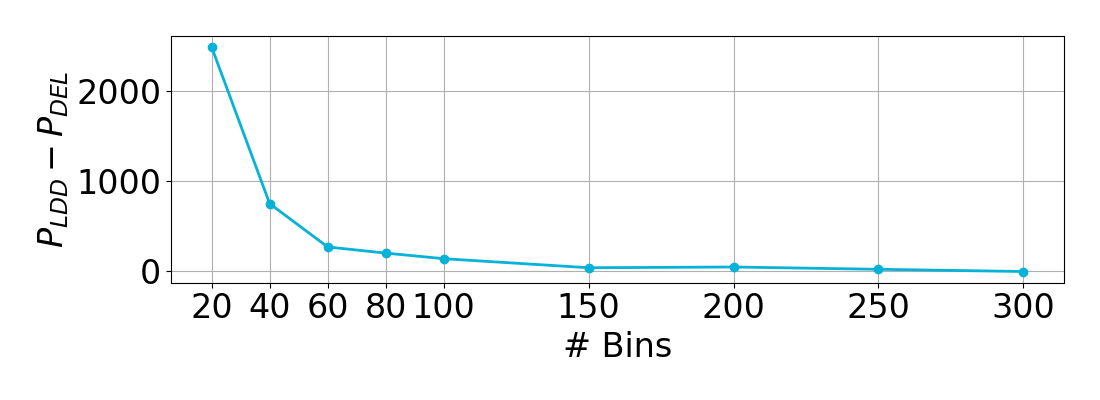
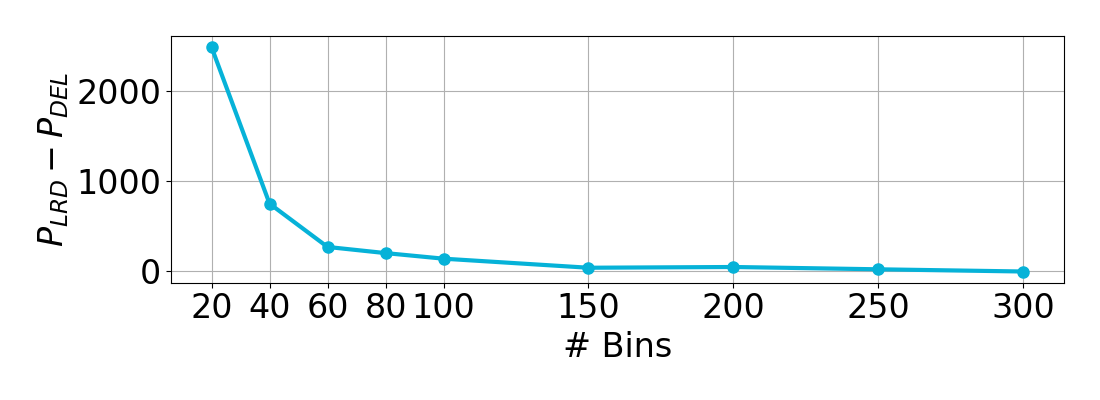
corrected LRD-DEL compr plot; saved AL

diff --git a/examples/06_drivetrain/M4W_production_runs/00_testing.py b/examples/06_drivetrain/M4W_production_runs/00_testing.py
@@ -605,8 +605,10 @@ lst_P_diff = np.array(df_nBins["P_LDD"].tolist()) - P_DEL
 # - plot
 fig,ax = plt.subplots(figsize=(11, 4))
 ax.plot(lst_nBins, lst_P_diff,
-        marker='o', color= clrs_m4w["Aqua"])
-ax.set_ylabel(r"$ P_{LDD}-P_{DEL} $")
+        marker='o', linewidth=3, markersize=8,
+        color= clrs_m4w["Aqua"]
+        )
+ax.set_ylabel(r"$ P_{LRD}-P_{DEL} $")
 ax.set_xlabel('# Bins')
 ax.set_xticks(lst_nBins)
 ax.grid(True)
